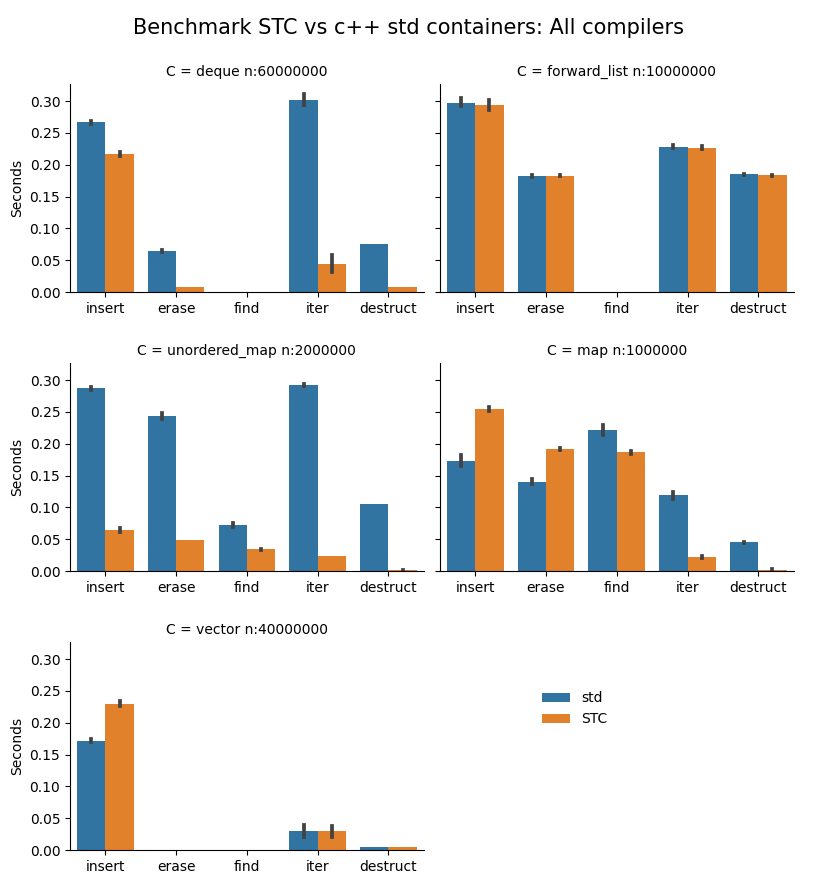
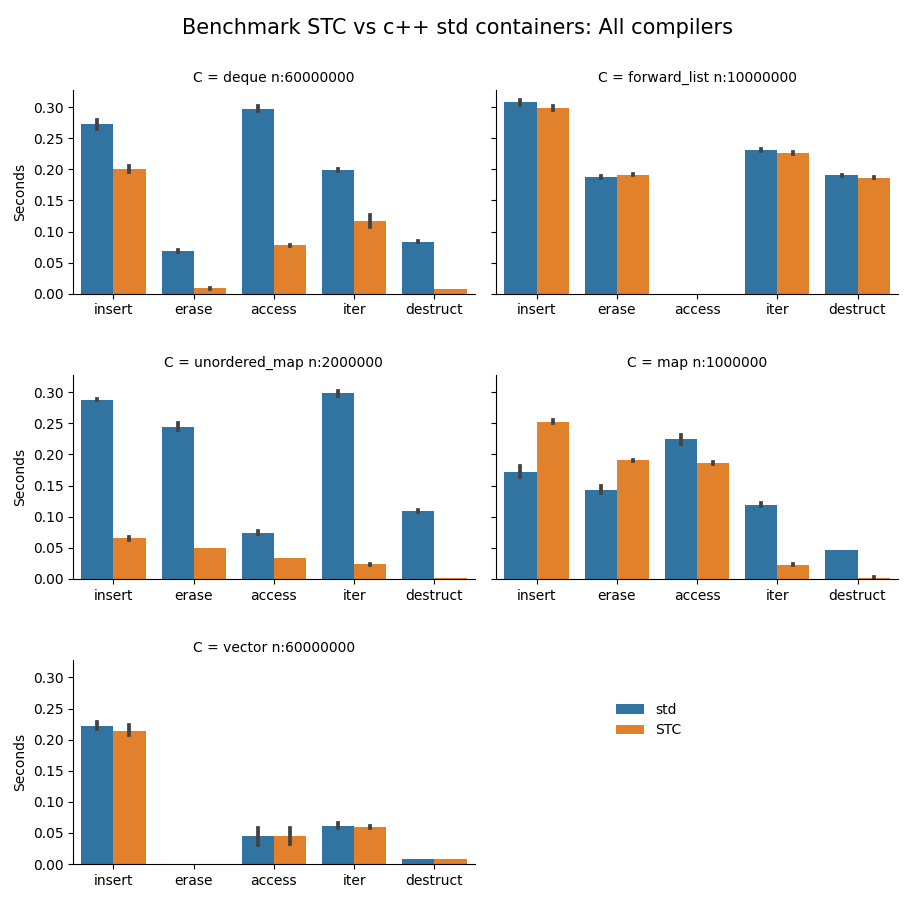
Updated and fixed benchmarks and performance graphs.

diff --git a/misc/benchmarks/plotbench/cdeq_benchmark.cpp b/misc/benchmarks/plotbench/cdeq_benchmark.cpp
@@ -9,10 +9,10 @@
 #endif
 
 enum {INSERT, ERASE, FIND, ITER, DESTRUCT, N_TESTS};
-const char* operations[] = {"insert", "erase", "find", "iter", "destruct"};
+const char* operations[] = {"insert", "erase", "access", "iter", "destruct"};
 typedef struct { time_t t1, t2; uint64_t sum; float fac; } Range;
 typedef struct { const char* name; Range test[N_TESTS]; } Sample;
-enum {SAMPLES = 2, N = 60000000, S = 0x3ffc, R = 4};
+enum {SAMPLES = 2, N = 60000000, R = 4};
 uint64_t seed = 1, mask1 = 0xfffffff, mask2 = 0xffff;
 
 static float secs(Range s) { return (float)(s.t2 - s.t1) / CLOCKS_PER_SEC; }
@@ -44,14 +44,12 @@ Sample test_std_deque() {
         c_forrange (N) con.push_back(crand() & mask2);
         s.test[FIND].t1 = clock();
         size_t sum = 0;
-        // Iteration - not inherent find - skipping
-        //container::iterator it;
-        //c_forrange (S) if ((it = std::find(con.begin(), con.end(), crand() & mask2)) != con.end()) sum += *it;
+        c_forrange (R) c_forrange (i, N) sum += con[i];
         s.test[FIND].t2 = clock();
         s.test[FIND].sum = sum;
         s.test[ITER].t1 = clock();
         sum = 0;
-        c_forrange (R) c_forrange (i, N) sum += con[i];
+        c_forrange (R) for (const auto i: con) sum += i;
         s.test[ITER].t2 = clock();
         s.test[ITER].sum = sum;
         s.test[DESTRUCT].t1 = clock();
@@ -89,13 +87,12 @@ Sample test_stc_deque() {
         c_forrange (N) cdeq_x_push_back(&con, crand() & mask2);
         s.test[FIND].t1 = clock();
         size_t sum = 0;
-        //cdeq_x_iter it, end = cdeq_x_end(&con);
-        //c_forrange (S) if ((it = cdeq_x_find(&con, crand() & mask2)).ref != end.ref) sum += *it.ref;
+        c_forrange (R) c_forrange (i, N) sum += *cdeq_x_at(&con, i);
         s.test[FIND].t2 = clock();
         s.test[FIND].sum = sum;
         s.test[ITER].t1 = clock();
         sum = 0;
-        c_forrange (R) c_forrange (i, N) sum += con.data[i];
+        c_forrange (R) c_foreach (i, cdeq_x, con) sum += *i.ref;
         s.test[ITER].t2 = clock();
         s.test[ITER].sum = sum;
         s.test[DESTRUCT].t1 = clock();

diff --git a/misc/benchmarks/plotbench/cvec_benchmark.cpp b/misc/benchmarks/plotbench/cvec_benchmark.cpp
@@ -9,10 +9,10 @@
 #endif
 
 enum {INSERT, ERASE, FIND, ITER, DESTRUCT, N_TESTS};
-const char* operations[] = {"insert", "erase", "find", "iter", "destruct"};
+const char* operations[] = {"insert", "erase", "access", "iter", "destruct"};
 typedef struct { time_t t1, t2; uint64_t sum; float fac; } Range;
 typedef struct { const char* name; Range test[N_TESTS]; } Sample;
-enum {SAMPLES = 2, N = 40000000, S = 0x3ffc, R = 4};
+enum {SAMPLES = 2, N = 60000000, R = 4};
 uint64_t seed = 1, mask1 = 0xfffffff, mask2 = 0xffff;
 
 static float secs(Range s) { return (float)(s.t2 - s.t1) / CLOCKS_PER_SEC; }
@@ -42,14 +42,12 @@ Sample test_std_vector() {
         c_forrange (N) con.push_back(crand() & mask2);
         s.test[FIND].t1 = clock();
         size_t sum = 0;
-        //container::iterator it;
-        // Iteration - not inherent find - skipping
-        //c_forrange (S) if ((it = std::find(con.begin(), con.end(), crand() & mask2)) != con.end()) sum += *it;
+        c_forrange (R) c_forrange (i, N) sum += con[i];
         s.test[FIND].t2 = clock();
         s.test[FIND].sum = sum;
         s.test[ITER].t1 = clock();
         sum = 0;
-        c_forrange (R) c_forrange (i, N) sum += con[i];
+        c_forrange (R) for (const auto i: con) sum += i;
         s.test[ITER].t2 = clock();
         s.test[ITER].sum = sum;
         s.test[DESTRUCT].t1 = clock();
@@ -85,13 +83,12 @@ Sample test_stc_vector() {
         c_forrange (N) cvec_x_push(&con, crand() & mask2);
         s.test[FIND].t1 = clock();
         size_t sum = 0;
-        //cvec_x_iter it, end = cvec_x_end(&con);
-        //c_forrange (S) if ((it = cvec_x_find(&con, crand() & mask2)).ref != end.ref) sum += *it.ref;
+        c_forrange (R) c_forrange (i, N) sum += con.data[i];
         s.test[FIND].t2 = clock();
         s.test[FIND].sum = sum;
         s.test[ITER].t1 = clock();
         sum = 0;
-        c_forrange (R) c_forrange (i, N) sum += con.data[i];
+        c_forrange (R) c_foreach (i, cvec_x, con) sum += *i.ref;
         s.test[ITER].t2 = clock();
         s.test[ITER].sum = sum;
         s.test[DESTRUCT].t1 = clock();

diff --git a/misc/benchmarks/plotbench/clist_benchmark.cpp b/misc/benchmarks/plotbench/clist_benchmark.cpp
@@ -9,10 +9,10 @@
 #endif
 
 enum {INSERT, ERASE, FIND, ITER, DESTRUCT, N_TESTS};
-const char* operations[] = {"insert", "erase", "find", "iter", "destruct"};
+const char* operations[] = {"insert", "erase", "access", "iter", "destruct"};
 typedef struct { time_t t1, t2; uint64_t sum; float fac; } Range;
 typedef struct { const char* name; Range test[N_TESTS]; } Sample;
-enum {SAMPLES = 2, N = 10000000, S = 0x3ffc, R = 4};
+enum {SAMPLES = 2, N = 10000000, R = 4};
 uint64_t seed = 1, mask1 = 0xfffffff, mask2 = 0xffff;
 
 static float secs(Range s) { return (float)(s.t2 - s.t1) / CLOCKS_PER_SEC; }
@@ -45,7 +45,6 @@ Sample test_std_forward_list() {
         size_t sum = 0;
         container::iterator it;
         // Iteration - not inherent find - skipping
-        //c_forrange (S) if ((it = std::find(con.begin(), con.end(), crand() & mask2)) != con.end()) sum += *it;
         s.test[FIND].t2 = clock();
         s.test[FIND].sum = sum;
         s.test[ITER].t1 = clock();
@@ -86,8 +85,7 @@ Sample test_stc_forward_list() {
         c_forrange (N) clist_x_push_front(&con, crand() & mask2);
         s.test[FIND].t1 = clock();
         size_t sum = 0;
-        //clist_x_iter it, end = clist_x_end(&con);
-        //c_forrange (S) if ((it = clist_x_find(&con, crand() & mask2)).ref != end.ref) sum += *it.ref;
+        //clist iteration - skipping
         s.test[FIND].t2 = clock();
         s.test[FIND].sum = sum;
         s.test[ITER].t1 = clock();

diff --git a/misc/benchmarks/plotbench/cmap_benchmark.cpp b/misc/benchmarks/plotbench/cmap_benchmark.cpp
@@ -8,7 +8,7 @@
 #endif
 
 enum {INSERT, ERASE, FIND, ITER, DESTRUCT, N_TESTS};
-const char* operations[] = {"insert", "erase", "find", "iter", "destruct"};
+const char* operations[] = {"insert", "erase", "access", "iter", "destruct"};
 typedef struct { time_t t1, t2; uint64_t sum; float fac; } Range;
 typedef struct { const char* name; Range test[N_TESTS]; } Sample;
 enum {SAMPLES = 2, N = 2000000, R = 4};
@@ -47,12 +47,14 @@ Sample test_std_unordered_map() {
         s.test[FIND].t1 = clock();
         size_t sum = 0;
         container::iterator it;
-        c_forrange (N) if ((it = con.find(crand() & mask1)) != con.end()) sum += it->second;
+        c_forrange (N)
+            if ((it = con.find(crand() & mask1)) != con.end())
+                sum += it->second;
         s.test[FIND].t2 = clock();
         s.test[FIND].sum = sum;
         s.test[ITER].t1 = clock();
         sum = 0;
-        c_forrange (R) for (auto i: con) sum += i.second;
+        c_forrange (R) for (const auto& i: con) sum += i.second;
         s.test[ITER].t2 = clock();
         s.test[ITER].sum = sum;
         s.test[DESTRUCT].t1 = clock();

diff --git a/misc/benchmarks/plotbench/csmap_benchmark.cpp b/misc/benchmarks/plotbench/csmap_benchmark.cpp
@@ -8,7 +8,7 @@
 #endif
 
 enum {INSERT, ERASE, FIND, ITER, DESTRUCT, N_TESTS};
-const char* operations[] = {"insert", "erase", "find", "iter", "destruct"};
+const char* operations[] = {"insert", "erase", "access", "iter", "destruct"};
 typedef struct { time_t t1, t2; uint64_t sum; float fac; } Range;
 typedef struct { const char* name; Range test[N_TESTS]; } Sample;
 enum {SAMPLES = 2, N = 1000000, R = 4};
@@ -47,12 +47,14 @@ Sample test_std_map() {
         s.test[FIND].t1 = clock();
         size_t sum = 0;
         container::iterator it;
-        c_forrange (N) if ((it = con.find(crand() & mask1)) != con.end()) sum += it->second;
+        c_forrange (N) 
+            if ((it = con.find(crand() & mask1)) != con.end())
+                sum += it->second;
         s.test[FIND].t2 = clock();
         s.test[FIND].sum = sum;
         s.test[ITER].t1 = clock();
         sum = 0;
-        c_forrange (R) for (auto i: con) sum += i.second;
+        c_forrange (R) for (const auto& i: con) sum += i.second;
         s.test[ITER].t2 = clock();
         s.test[ITER].sum = sum;
         s.test[DESTRUCT].t1 = clock();

diff --git a/misc/benchmarks/plotbench/plot.py b/misc/benchmarks/plotbench/plot.py
@@ -13,12 +13,11 @@ if n > 0:
     df = df[df.Compiler == comp[n]]
 
 g = sns.catplot(data=df, x='Method', y='Seconds', hue='Library', col='C', kind='bar', orient='v',
-                 errorbar=('ci', 68), legend=False, col_wrap=2, sharex=False, aspect=1.4, height=3.1)
+                 errorbar=('ci', 68), legend=False, col_wrap=2, sharex=False, aspect=1.4, height=3.0)
 g.set_xlabels('')
 
-g.add_legend(bbox_to_anchor=(0.75, 0.2), borderaxespad=0.)
-
-g.fig.subplots_adjust(top=0.90, left=0.06, bottom=0.07)
+g.add_legend(bbox_to_anchor=(0.75, 0.2), borderaxespad=0)
+g.fig.subplots_adjust(top=0.90, left=0.08, right=0.98, bottom=0.04, hspace=0.4)
 g.fig.suptitle('Benchmark STC vs c++ std containers: %s' % comp[n], fontsize=15, y=0.98)
 
 plt.show()

diff --git a/include/stc/cvec.h b/include/stc/cvec.h
@@ -316,7 +316,7 @@ _cx_MEMB(_resize)(_cx_Self* self, const intptr_t len, i_key null) {
 STC_DEF _cx_value*
 _cx_MEMB(_push)(_cx_Self* self, i_key value) {
     if (self->_len == self->_cap)
-        if (!_cx_MEMB(_reserve)(self, self->_len*3/2 + 4))
+        if (!_cx_MEMB(_reserve)(self, self->_len*2 + 4))
             return NULL;
     _cx_value *v = self->data + self->_len++;
     *v = value;

diff --git a/include/stc/cstack.h b/include/stc/cstack.h
@@ -103,7 +103,7 @@ STC_INLINE bool _cx_MEMB(_reserve)(_cx_Self* self, intptr_t n) {
 
 STC_INLINE _cx_value* _cx_MEMB(_append_uninit)(_cx_Self *self, intptr_t n) {
     intptr_t len = self->_len;
-    if (!_cx_MEMB(_reserve)(self, len + n)) return NULL;
+    if (!_cx_MEMB(_reserve)(self, len*3/2 + n)) return NULL;
     self->_len += n;
     return self->data + len;
 }

diff --git a/misc/benchmarks/plotbench/cpque_benchmark.cpp b/misc/benchmarks/plotbench/cpque_benchmark.cpp
@@ -37,7 +37,8 @@ void stc_test()
 {
     int N = 10000000;
 
-    c_auto (cpque_f, pq)
+    cpque_f pq = {0};   
+    c_defer(cpque_f_drop(&pq))
     {
         csrand(seed);
         clock_t start = clock();
